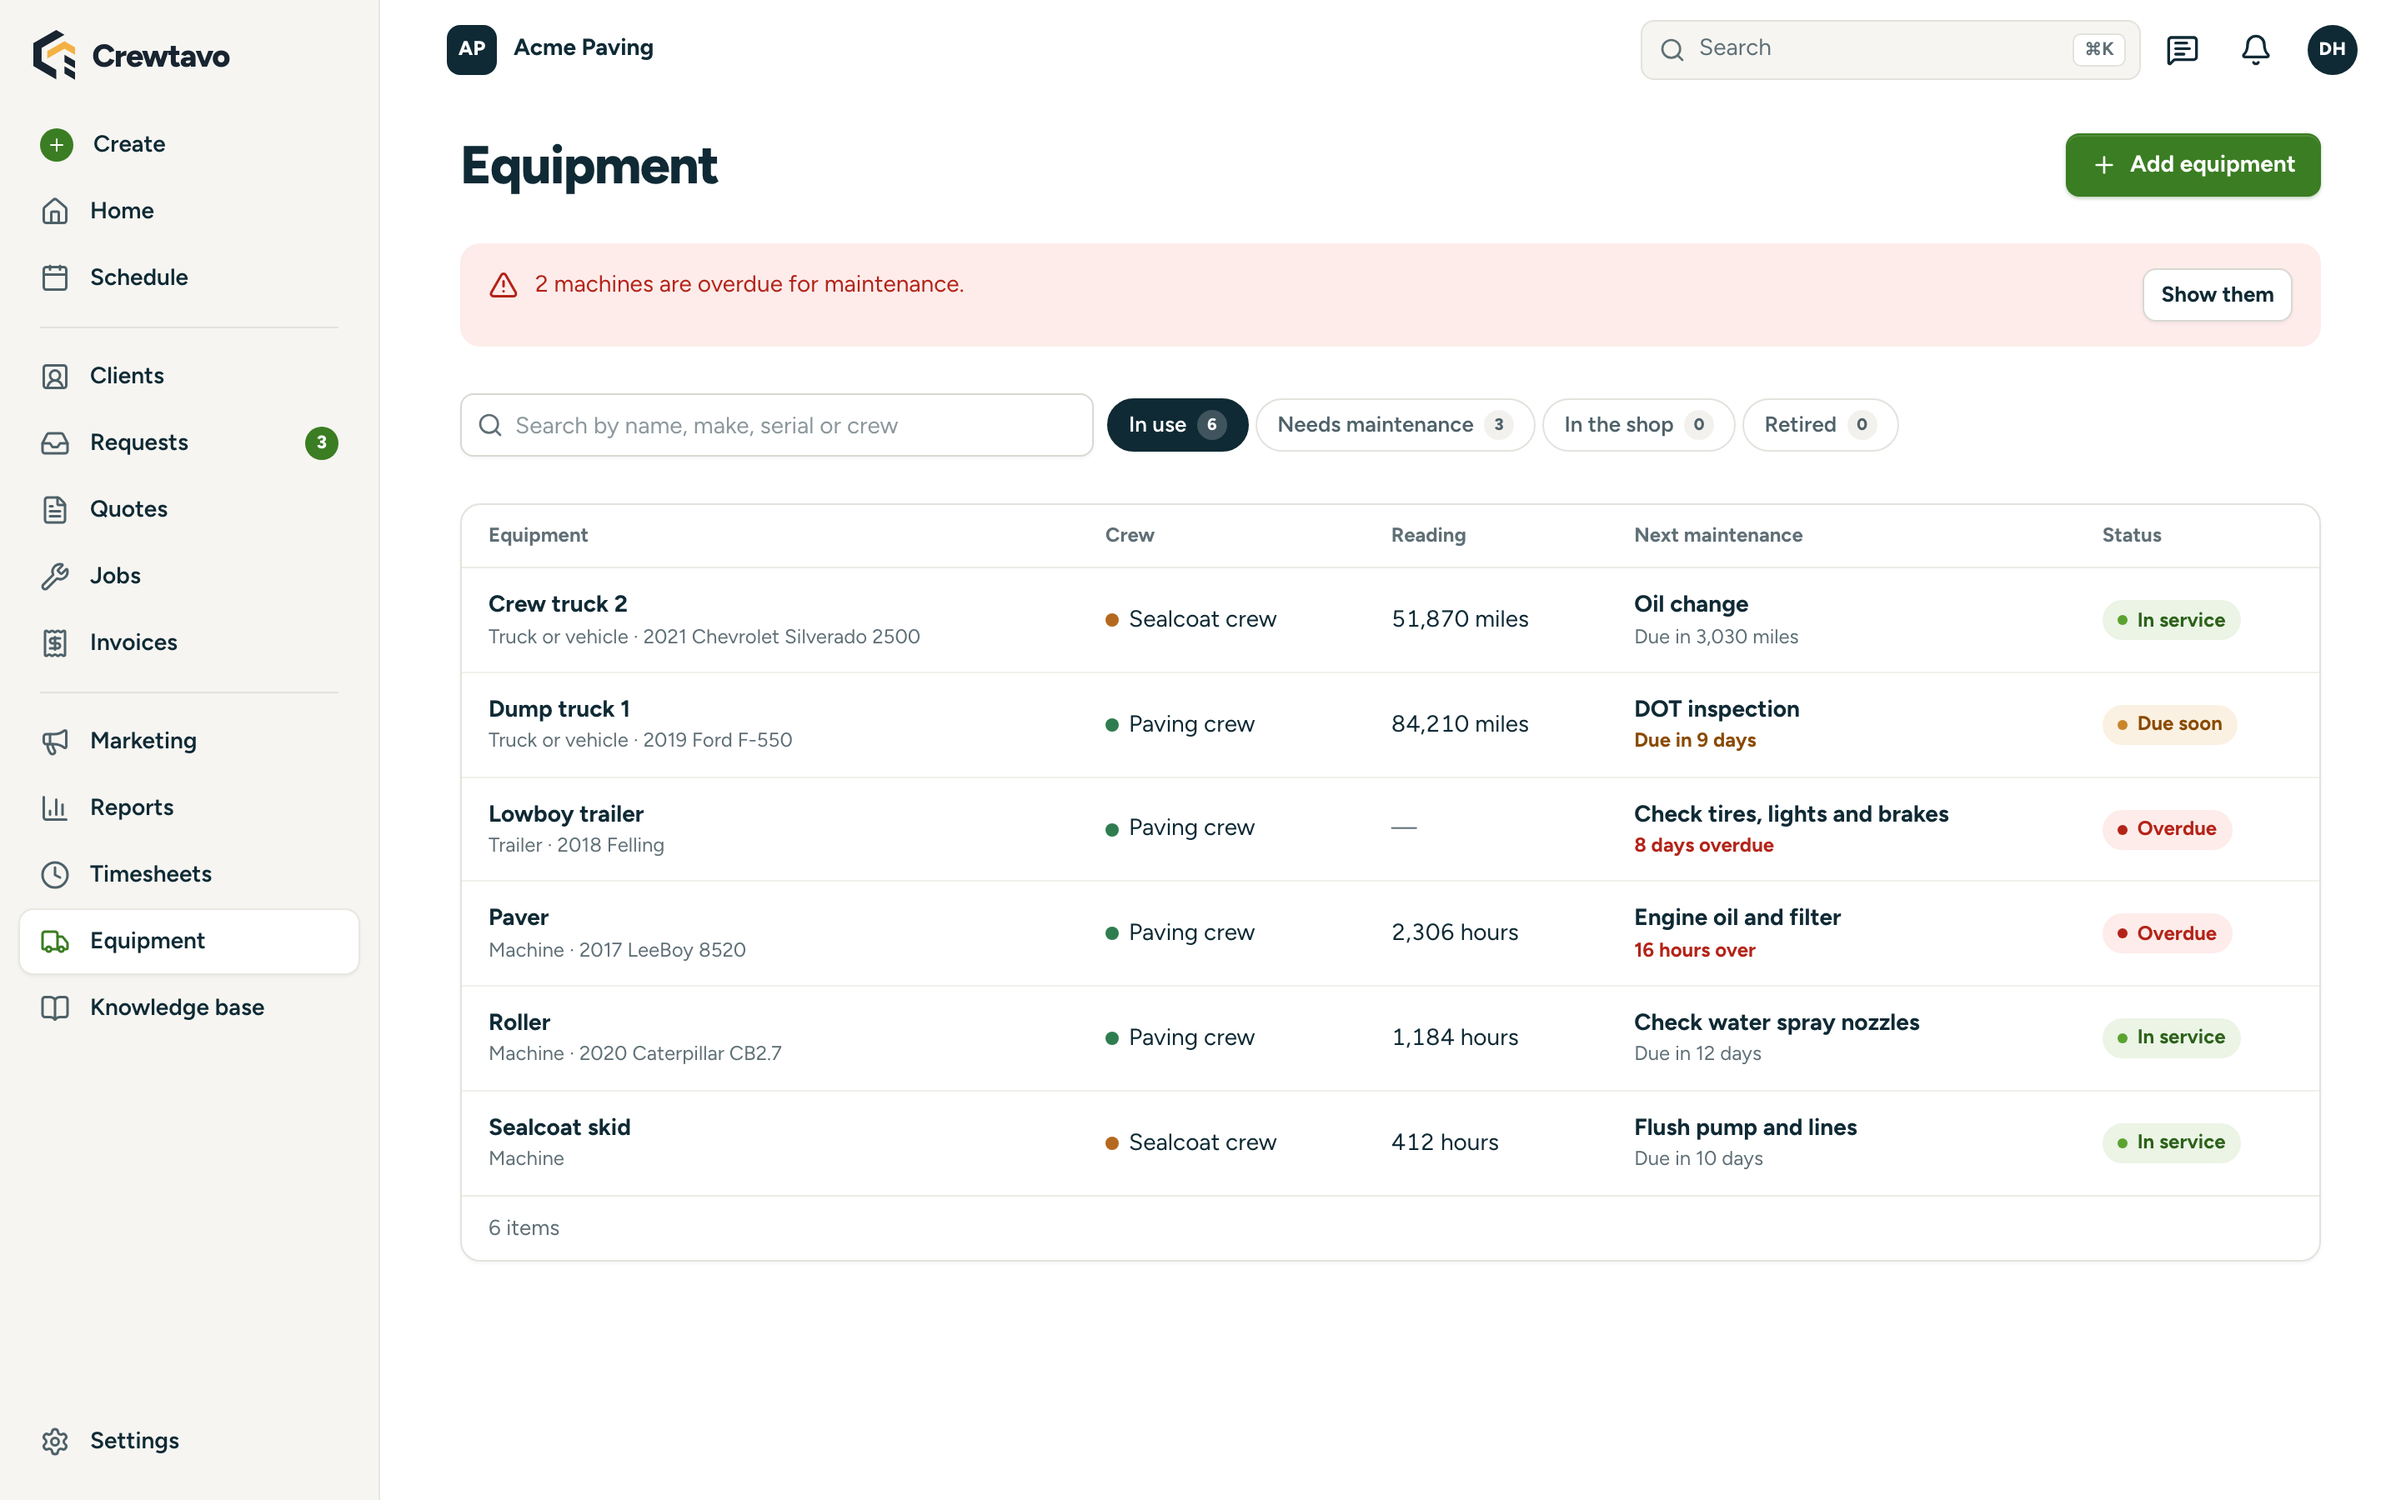
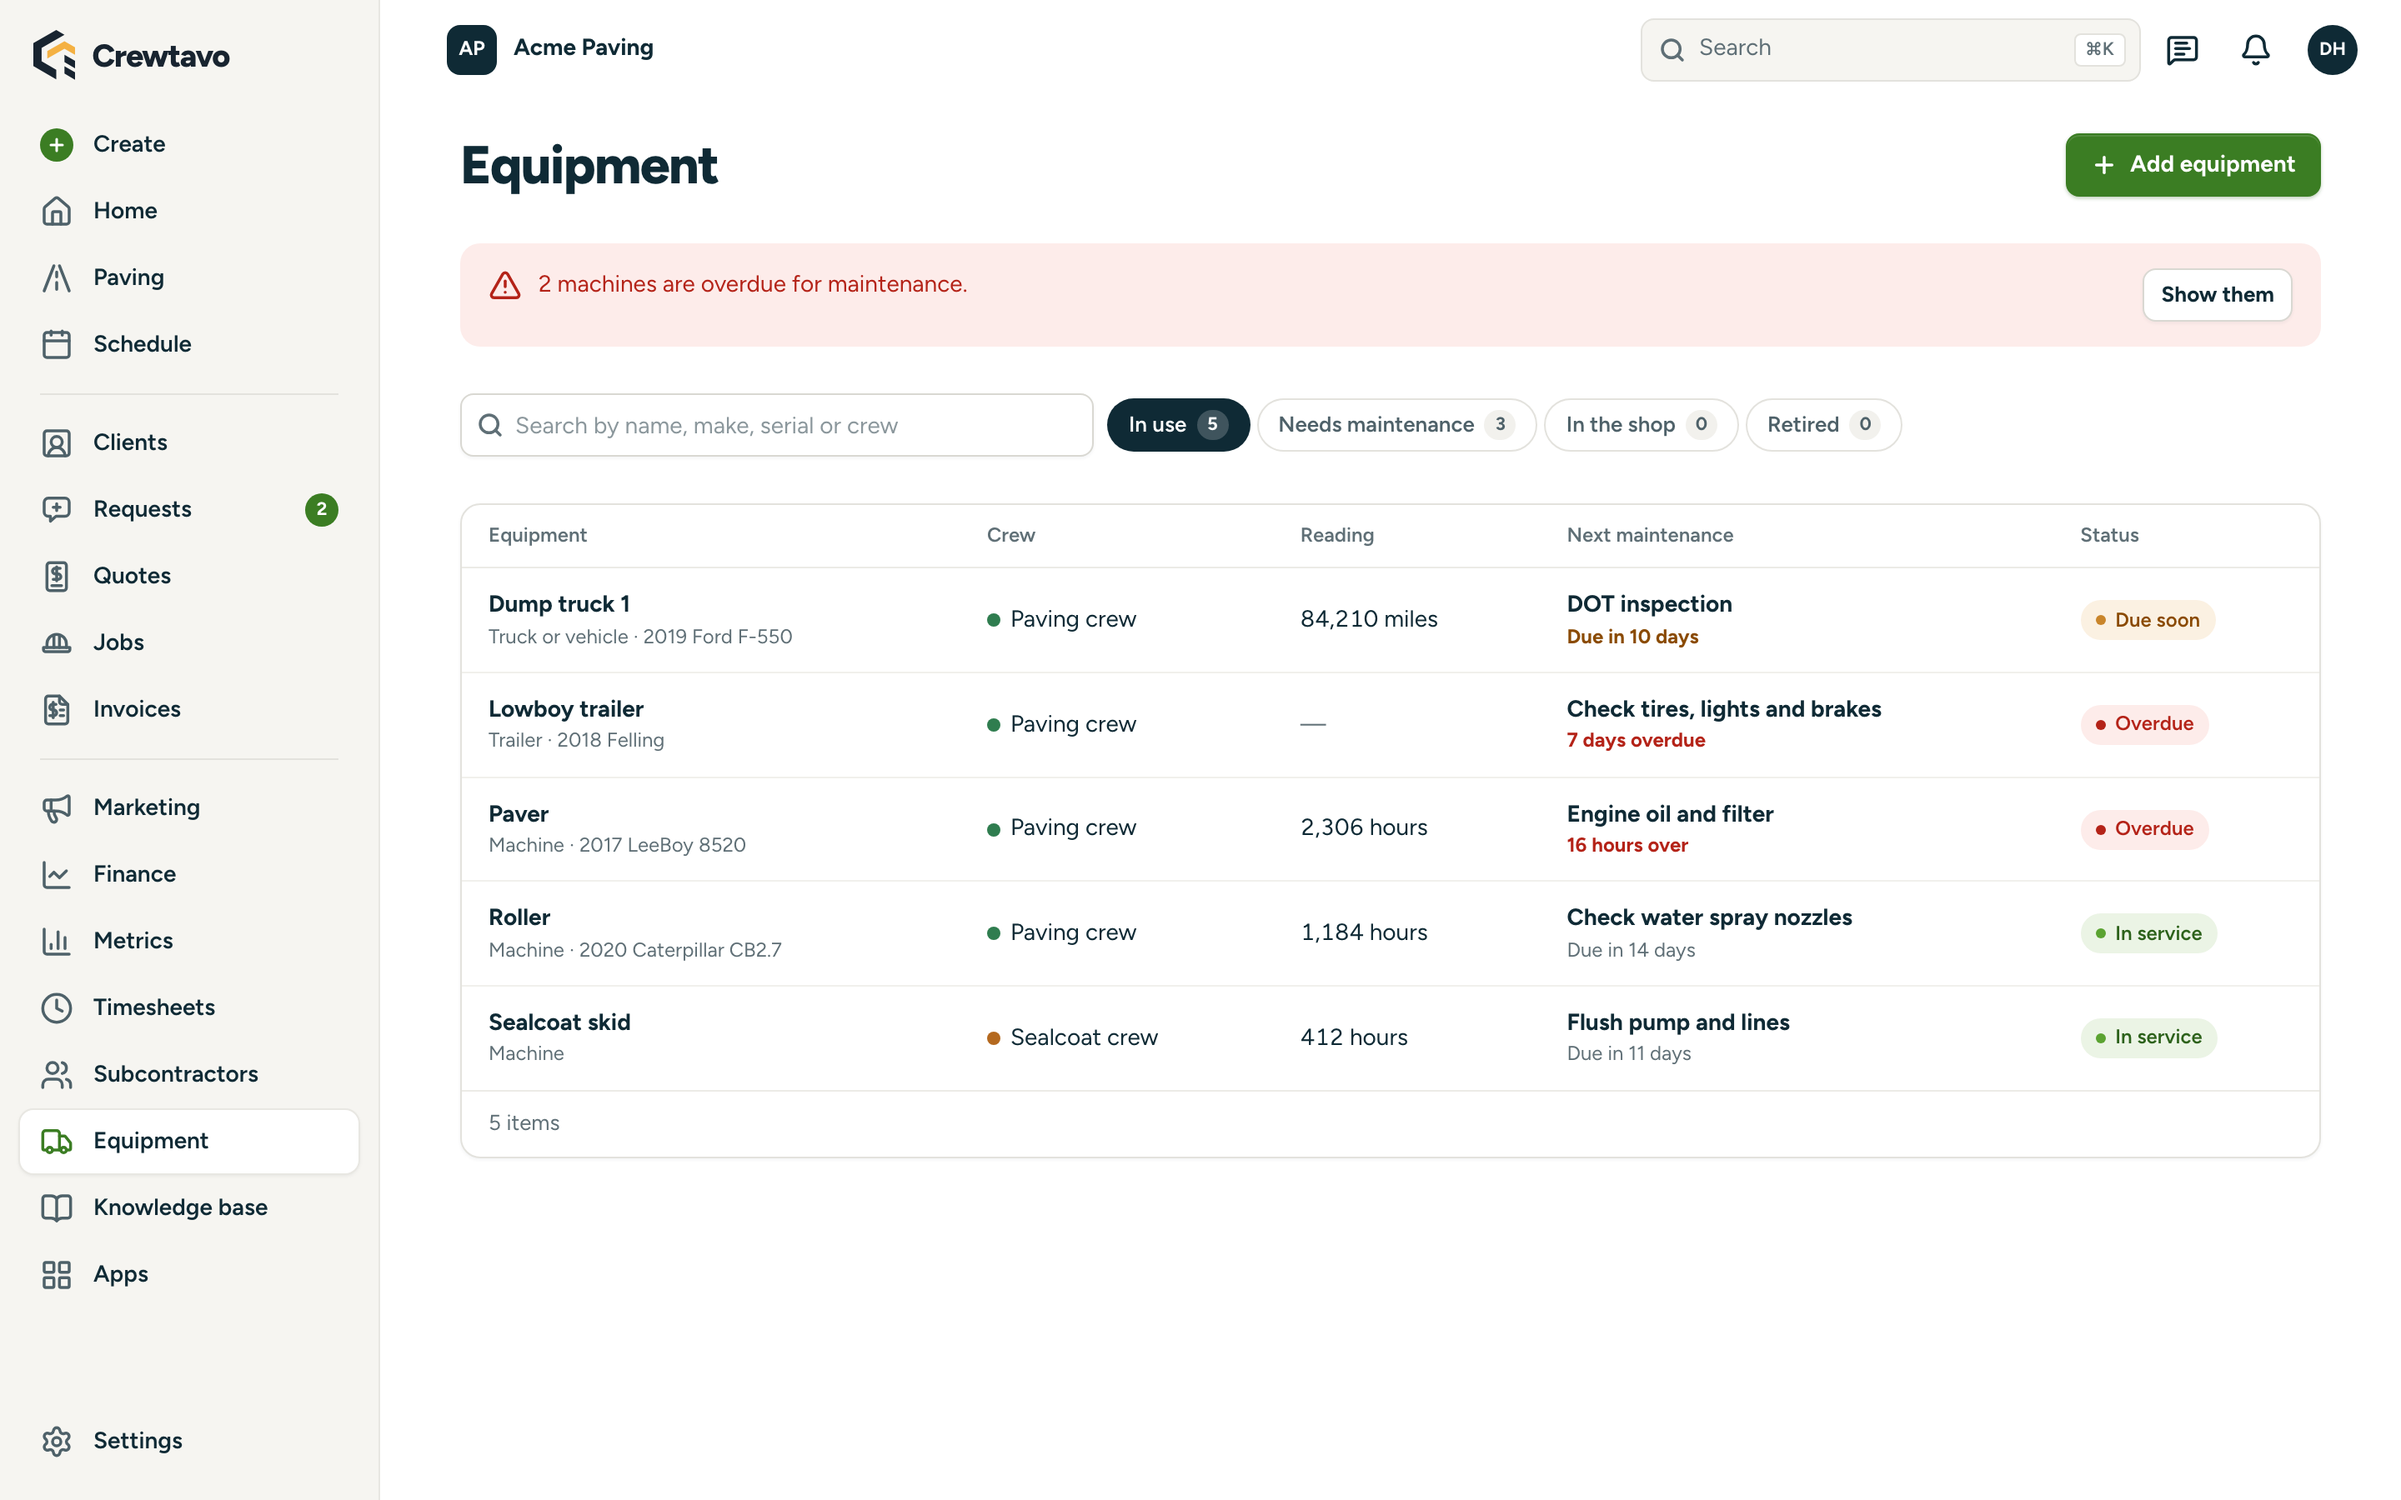
Screenshots of today's Crewtavo, with more of them in the README
- Every README screenshot is retaken from a fuller demo company, and a "More screenshots" section
  adds Measure, Paving, Jobs, a job, a client, Invoices, an invoice, Timesheets, Marketing,
  Automations, Apps, dark mode, a visit on a phone and Home on a phone.
- seed:demo fills in what those screens show, and stays safe to rerun; npm run screenshots takes
  the new ones.

diff --git a/README.md b/README.md
@@ -223,6 +223,87 @@ to the **crewtavo** service's variables on Railway, or to `.env.instance` when s
   </tr>
 </table>
 
+<details>
+<summary><strong>More screenshots</strong></summary>
+
+<table>
+  <tr>
+    <td width="50%" valign="top">
+      <img src="docs/images/measure.png" alt="Measure: a parking lot outlined on the aerial with stall rows, ADA stalls and crack seal, and the takeoff's totals">
+      <p><strong>Measure.</strong> A paving takeoff drawn on the aerial.</p>
+    </td>
+    <td width="50%" valign="top">
+      <img src="docs/images/paving.png" alt="A paving project: the takeoff sheet, its quantities and the steps from takeoff to invoice">
+      <p><strong>Paving.</strong> The takeoff priced into a proposal.</p>
+    </td>
+  </tr>
+  <tr>
+    <td width="50%" valign="top">
+      <img src="docs/images/jobs.png" alt="Jobs: active, upcoming and unscheduled jobs with their next visit and value">
+      <p><strong>Jobs.</strong> Every job and where it stands.</p>
+    </td>
+    <td width="50%" valign="top">
+      <img src="docs/images/job.png" alt="A job: its visits, line items and job costing">
+      <p><strong>A job.</strong> Visits, line items and job costing.</p>
+    </td>
+  </tr>
+  <tr>
+    <td width="50%" valign="top">
+      <img src="docs/images/client.png" alt="A client: properties, quotes, jobs, invoices, balance and marketing preferences">
+      <p><strong>A client.</strong> Properties, work, balance and contacts.</p>
+    </td>
+    <td width="50%" valign="top">
+      <img src="docs/images/invoices.png" alt="Invoices: awaiting payment, past due and collected, with the open invoices">
+      <p><strong>Invoices.</strong> What's owed, past due and collected.</p>
+    </td>
+  </tr>
+  <tr>
+    <td width="50%" valign="top">
+      <img src="docs/images/invoice.png" alt="A partly paid invoice with its payment and the printed copy">
+      <p><strong>An invoice.</strong> Payments and the printed copy.</p>
+    </td>
+    <td width="50%" valign="top">
+      <img src="docs/images/timesheets.png" alt="Timesheets: each person's hours for the week, approved and pending">
+      <p><strong>Timesheets.</strong> The crew's hours, approved for pay.</p>
+    </td>
+  </tr>
+  <tr>
+    <td width="50%" valign="top">
+      <img src="docs/images/marketing.png" alt="Marketing: emails sent, review requests and referrals, automated campaigns and a sent campaign">
+      <p><strong>Marketing.</strong> Campaigns, review asks and referrals.</p>
+    </td>
+    <td width="50%" valign="top">
+      <img src="docs/images/automations.png" alt="Automations: rules that notify the office and follow up with clients">
+      <p><strong>Automations.</strong> Rules that follow up by themselves.</p>
+    </td>
+  </tr>
+  <tr>
+    <td width="50%" valign="top">
+      <img src="docs/images/apps.png" alt="Apps: what's built in, and the marketing, calendar and AI apps to connect">
+      <p><strong>Apps.</strong> Built-in apps and connections.</p>
+    </td>
+    <td width="50%" valign="top">
+      <img src="docs/images/dashboard-dark.png" alt="Crewtavo's home screen in dark mode">
+      <p><strong>Dark mode.</strong> Home after dark.</p>
+    </td>
+  </tr>
+</table>
+
+<table>
+  <tr>
+    <td width="50%" valign="top" align="center">
+      <img src="docs/images/field-visit.png" alt="A visit on a phone: call, text and directions, and the work to do" width="250">
+      <p><strong>A visit</strong> on the crew's phone.</p>
+    </td>
+    <td width="50%" valign="top" align="center">
+      <img src="docs/images/dashboard-phone.png" alt="Home on a phone: the day's workflow" width="250">
+      <p><strong>Home</strong> on the owner's phone.</p>
+    </td>
+  </tr>
+</table>
+
+</details>
+
 **And also:**
 
 - **Jobs and invoicing:** one-off and recurring jobs, multi-day work, change orders the client
